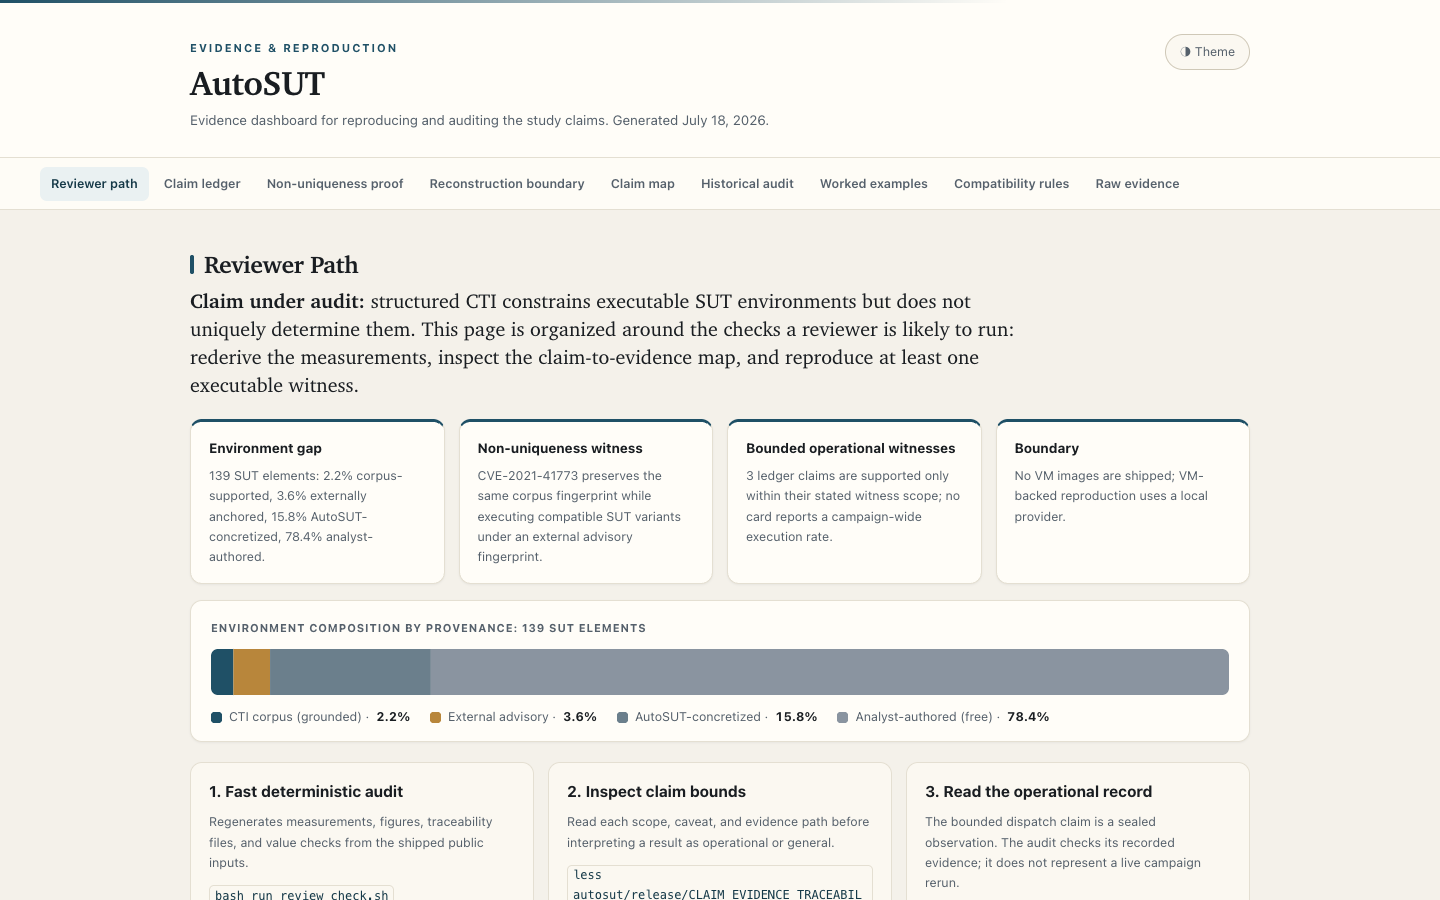
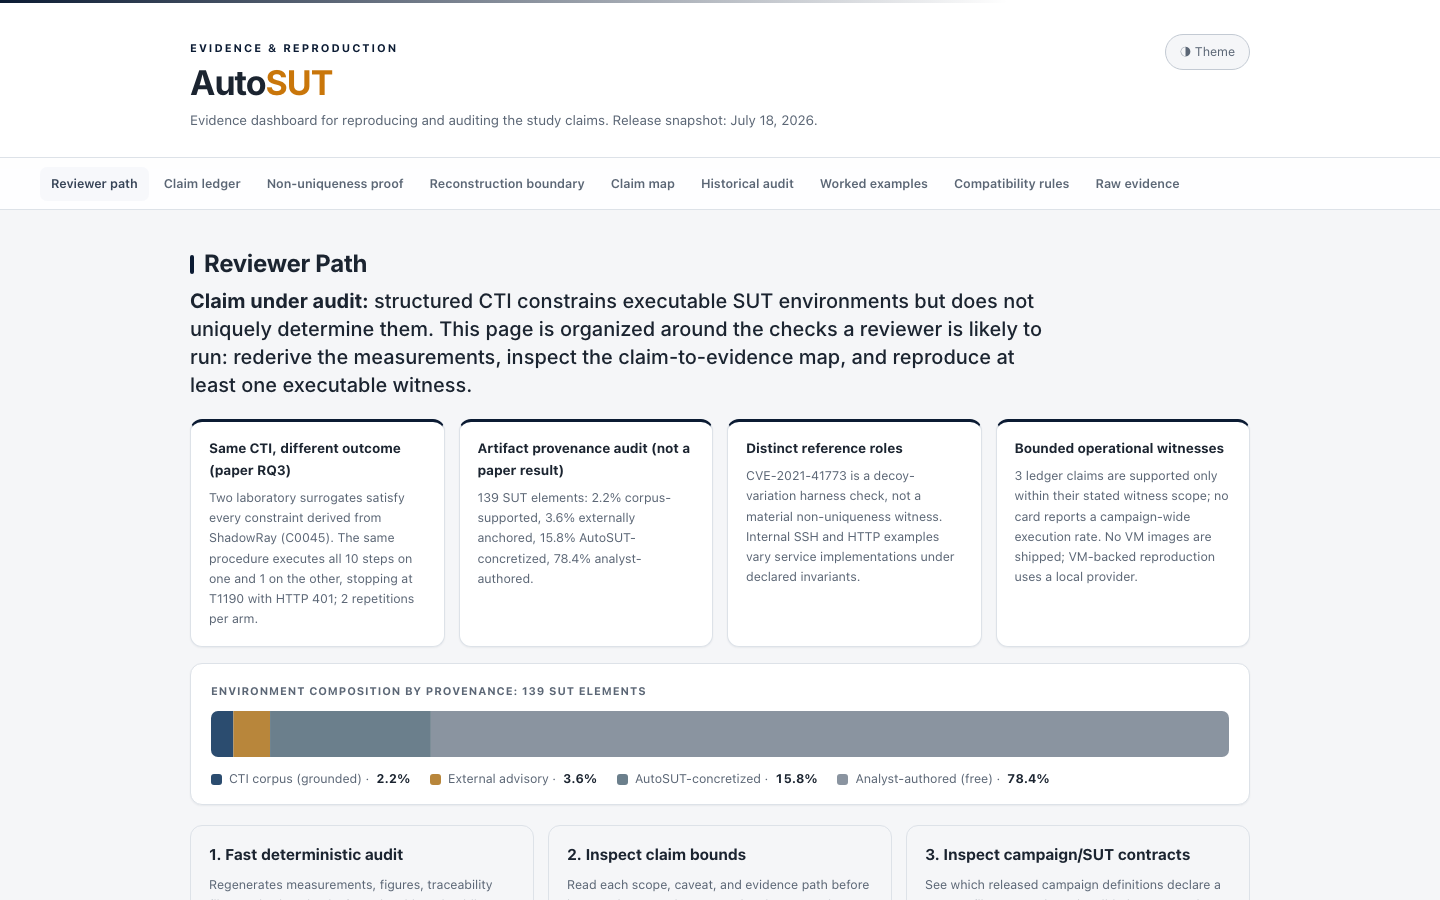
Lead the dashboard with the paper's consequence result; map paper RQs to ledger entries

diff --git a/autosut/release/dashboard/index.html b/autosut/release/dashboard/index.html
@@ -50,7 +50,16 @@
     at least one executable witness.</p>
   <div class='overview-grid'>
     <div class='overview-card'>
-      <strong>Environment gap</strong>
+      <strong>Same CTI, different outcome (paper RQ3)</strong>
+      <span>Two laboratory surrogates satisfy every constraint derived from
+        ShadowRay (C0045). The same procedure executes all
+        10 steps on one and
+        1 on the other, stopping at
+        T1190 with HTTP 401;
+        2 repetitions per arm.</span>
+    </div>
+    <div class='overview-card'>
+      <strong>Artifact provenance audit (not a paper result)</strong>
       <span>139 SUT elements: 2.2%
         corpus-supported, 3.6% externally anchored,
         15.8% AutoSUT-concretized,
@@ -65,11 +74,8 @@
     <div class='overview-card'>
       <strong>Bounded operational witnesses</strong>
       <span>3 ledger claims are supported only within their
-        stated witness scope; no card reports a campaign-wide execution rate.</span>
-    </div>
-    <div class='overview-card'>
-      <strong>Boundary</strong>
-      <span>No VM images are shipped; VM-backed reproduction uses a local
+        stated witness scope; no card reports a campaign-wide execution rate.
+        No VM images are shipped; VM-backed reproduction uses a local
         provider.</span>
     </div>
   </div>

diff --git a/autosut/scripts/build_reviewer_dashboard.py b/autosut/scripts/build_reviewer_dashboard.py
@@ -27,6 +27,7 @@ PROJECT_ROOT = Path(__file__).resolve().parent.parent
 AUDIT_DIR = PROJECT_ROOT / "measurement" / "sut" / "scripts" / "results" / "audit"
 RESULTS_DIR = PROJECT_ROOT / "measurement" / "sut" / "scripts" / "results"
 MACRO_TEX = PROJECT_ROOT / "release" / "study_values.tex"
+REVIEW_MACRO_TEX = PROJECT_ROOT / "release" / "review_evidence_macros.tex"
 DASHBOARD_DIR = PROJECT_ROOT / "release" / "dashboard"
 DATA_DIR = DASHBOARD_DIR / "data"
 MACRO_PATTERN = re.compile(r"\\newcommand\{\\([A-Za-z][A-Za-z0-9]+)\}\{([^}]*)\}")
@@ -408,6 +409,12 @@ def load_macros() -> dict[str, str]:
     return {m.group(1): m.group(2) for m in MACRO_PATTERN.finditer(text)}
 
 
+def load_review_macros() -> dict[str, str]:
+    """Paper values bound to the consequence receipts; the gate checks them."""
+    text = REVIEW_MACRO_TEX.read_text(encoding="utf-8")
+    return {m.group(1): m.group(2) for m in MACRO_PATTERN.finditer(text)}
+
+
 def load_csv(path: Path, limit: int | None = None) -> tuple[list[str], list[list[str]]]:
     with path.open(newline="", encoding="utf-8") as handle:
         reader = csv.reader(handle)
@@ -736,6 +743,7 @@ def render_claim_ledger(ledger: dict) -> str:
 
 def render_audit_overview(merged, ledger: dict) -> str:
     pct = merged.percentages
+    review = load_review_macros()
     bounded_claims = sum(
         claim["status"] == "supported_bounded" for claim in ledger["claims"]
     )
@@ -749,7 +757,16 @@ def render_audit_overview(merged, ledger: dict) -> str:
     at least one executable witness.</p>
   <div class='overview-grid'>
     <div class='overview-card'>
-      <strong>Environment gap</strong>
+      <strong>Same CTI, different outcome (paper RQ3)</strong>
+      <span>Two laboratory surrogates satisfy every constraint derived from
+        ShadowRay (C0045). The same procedure executes all
+        {review['consequenceReachableSteps']} steps on one and
+        {review['consequenceGuardedSteps']} on the other, stopping at
+        {review['consequenceGuardedStop']} with HTTP 401;
+        {review['consequenceRepetitions']} repetitions per arm.</span>
+    </div>
+    <div class='overview-card'>
+      <strong>Artifact provenance audit (not a paper result)</strong>
       <span>{merged.total_elements} SUT elements: {pct['corpus_supported']}%
         corpus-supported, {pct['external_reference']}% externally anchored,
         {pct['autosut_concretized']}% AutoSUT-concretized,
@@ -764,11 +781,8 @@ def render_audit_overview(merged, ledger: dict) -> str:
     <div class='overview-card'>
       <strong>Bounded operational witnesses</strong>
       <span>{bounded_claims} ledger claims are supported only within their
-        stated witness scope; no card reports a campaign-wide execution rate.</span>
-    </div>
-    <div class='overview-card'>
-      <strong>Boundary</strong>
-      <span>No VM images are shipped; VM-backed reproduction uses a local
+        stated witness scope; no card reports a campaign-wide execution rate.
+        No VM images are shipped; VM-backed reproduction uses a local
         provider.</span>
     </div>
   </div>

diff --git a/ARTIFACT_MANIFEST.md b/ARTIFACT_MANIFEST.md
@@ -7,7 +7,7 @@
 | --- | ---: | --- |
[7 lines of base64/hex data omitted]
@@ -754,7 +754,7 @@
[8 lines of base64/hex data omitted]
@@ -805,7 +805,7 @@
[8 lines of base64/hex data omitted]
@@ -2476,7 +2476,7 @@
[8 lines of base64/hex data omitted]

diff --git a/README.md b/README.md
@@ -174,9 +174,13 @@ interpretations are listed there explicitly.
 Run `bash run_review_check.sh` from the package root for every claim below.
 No configuration edit or credential is required for the primary path.
 
-Ledger claim identifiers are stable and predate the manuscript's grouping
-into three questions: ledger RQ1 and RQ3 support manuscript RQ1, ledger RQ2
-supports RQ2, and ledger RQ4 with the C0045 study supports RQ3.
+Start from the paper's question; the ledger keeps older, stable identifiers.
+
+| Paper question | Ledger entries below | What to inspect |
+| --- | --- | --- |
+| RQ1: environment information in structured CTI | RQ1, RQ3 | regenerated corpus tables and profile-distance outputs |
+| RQ2: what the routing policy adds | RQ2 | routing labels, rule surface, sensitivity outputs |
+| RQ3: non-uniqueness and its consequence (ShadowRay, C0045) | RQ4 | constructive witnesses and the two-surrogate consequence receipts |
 
 ### RQ1: Structured Environment Evidence
 
